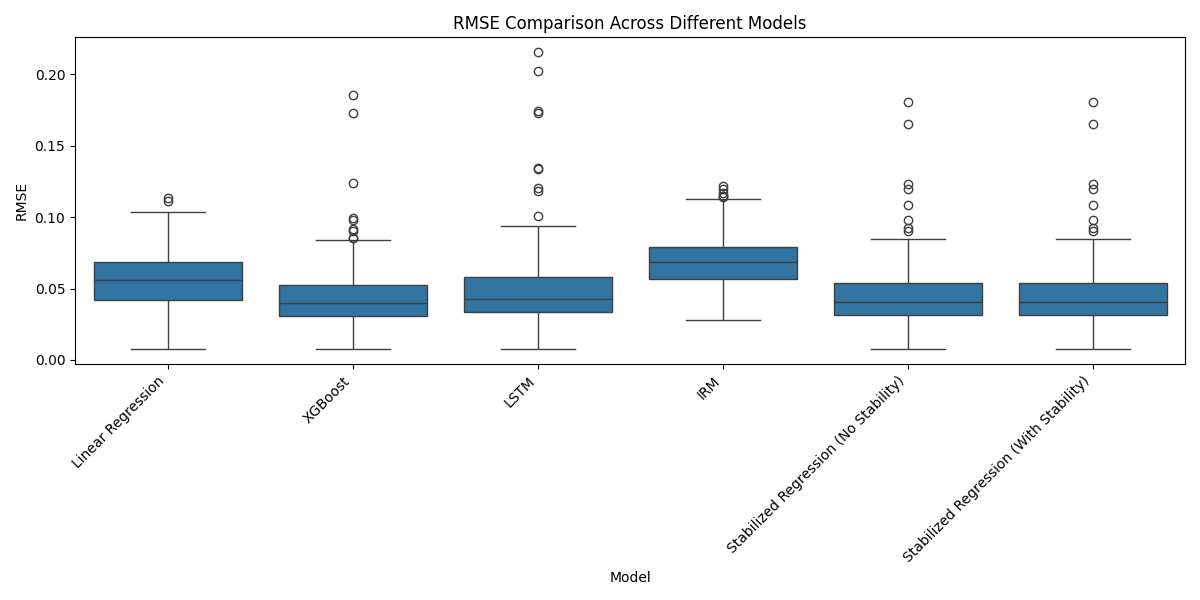
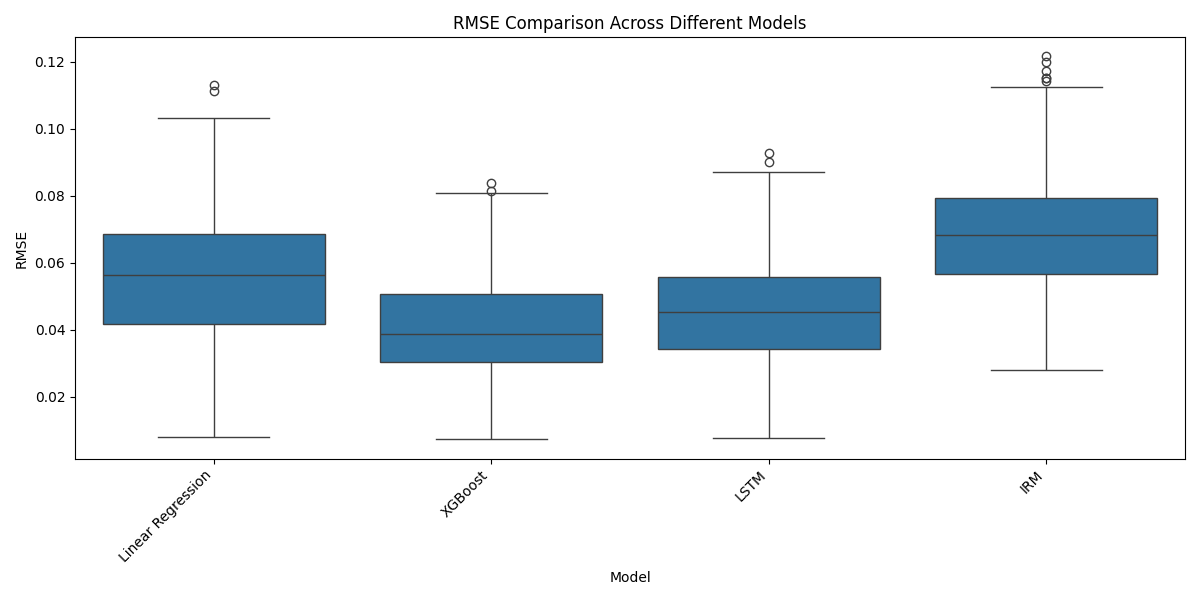
modified script

diff --git a/Comparison_InSite/comparison.py b/Comparison_InSite/comparison.py
@@ -6,14 +6,16 @@ import matplotlib.pyplot as plt
 import seaborn as sns
 
 # Read CSV files
-df_lr = pd.read_csv('/cluster/project/math/akmete/MSc/LR/In_Site/results.csv')
-df_xgb = pd.read_csv('/cluster/project/math/akmete/MSc/XGBoost/InSite/results.csv') 
+df_lr = pd.read_csv('/cluster/project/math/akmete/MSc/LR/In_Site/results_2.csv')
+df_xgb = pd.read_csv('/cluster/project/math/akmete/MSc/XGBoost/InSite/results_2.csv') 
 df_lstm = pd.read_csv('/cluster/project/math/akmete/MSc/LSTM/InSite/results.csv')
-df_irm = pd.read_csv('/cluster/project/math/akmete/MSc/IRM/OnSite/results.csv')
-df_sr_nostab = pd.read_csv('/cluster/project/math/akmete/MSc/Stabilized_Regression/In_Site/NoStability/results.csv')
-df_sr_withstab = pd.read_csv('/cluster/project/math/akmete/MSc/Stabilized_Regression/In_Site/WithStability/results.csv')
+df_irm = pd.read_csv('/cluster/project/math/akmete/MSc/IRM/OnSite/results_corrected.csv')
+df_sr_lr_nostab = pd.read_csv('/cluster/project/math/akmete/MSc/Stabilized_Regression/In_Site/NoStability/LR/results_lasso.csv')
+df_sr_lr_withstab = pd.read_csv('/cluster/project/math/akmete/MSc/Stabilized_Regression/In_Site/WithStability/LR/results_lasso.csv')
+df_sr_xgb_nostab = pd.read_csv('/cluster/project/math/akmete/MSc/Stabilized_Regression/In_Site/NoStability/XGBoost/results_screened_O_hat.csv')
+df_sr_xgb_withstab = pd.read_csv('/cluster/project/math/akmete/MSc/Stabilized_Regression/In_Site/WithStability/XGBoost/results_screened_all_metrics.csv')
 
-'''
+
 # Remove outlier from LR using the IQR method on the 'rmse' column
 q1_lr = df_lr['rmse'].quantile(0.25)
 q3_lr = df_lr['rmse'].quantile(0.75)
@@ -46,38 +48,58 @@ lower_bound_xgb = q1_xgb - 1.5 * iqr_xgb
 upper_bound_xgb = q3_xgb + 1.5 * iqr_xgb
 df_xgb_filtered = df_xgb[(df_xgb['rmse'] >= lower_bound_xgb) & (df_xgb['rmse'] <= upper_bound_xgb)]
 
-# Remove outliers in SR_nostab using the IQR method on the 'rmse' column
-q1_sr_nostab = df_sr_nostab['ensemble_rmse'].quantile(0.25)
-q3_sr_nostab = df_sr_nostab['ensemble_rmse'].quantile(0.75)
-iqr_sr_nostab = q3_sr_nostab - q1_sr_nostab
-lower_bound_sr_nostab = q1_sr_nostab - 1.5 * iqr_sr_nostab
-upper_bound_sr_nostab = q3_sr_nostab + 1.5 * iqr_sr_nostab
-df_sr_nostab_filtered = df_sr_nostab[(df_sr_nostab['ensemble_rmse'] >= lower_bound_sr_nostab) & (df_sr_nostab['ensemble_rmse'] <= upper_bound_sr_nostab)]
+# Remove outliers in SR_LR_nostab using the IQR method on the 'rmse' column
+q1_sr_lr_nostab = df_sr_lr_nostab['ensemble_rmse_scaled'].quantile(0.25)
+q3_sr_lr_nostab = df_sr_lr_nostab['ensemble_rmse_scaled'].quantile(0.75)
+iqr_sr_lr_nostab = q3_sr_lr_nostab - q1_sr_lr_nostab
+lower_bound_sr_lr_nostab = q1_sr_lr_nostab - 1.5 * iqr_sr_lr_nostab
+upper_bound_sr_lr_nostab = q3_sr_lr_nostab + 1.5 * iqr_sr_lr_nostab
+df_sr_lr_nostab_filtered = df_sr_lr_nostab[(df_sr_lr_nostab['ensemble_rmse_scaled'] >= lower_bound_sr_lr_nostab) & (df_sr_lr_nostab['ensemble_rmse_scaled'] <= upper_bound_sr_lr_nostab)]
 
-# Remove outliers in SR_withstab using the IQR method on the 'rmse' column
-q1_sr_withstab = df_sr_withstab['ensemble_rmse'].quantile(0.25)
-q3_sr_withstab = df_sr_withstab['ensemble_rmse'].quantile(0.75)
-iqr_sr_withstab = q3_sr_withstab - q1_sr_withstab
-lower_bound_sr_withstab = q1_sr_withstab - 1.5 * iqr_sr_withstab
-upper_bound_sr_withstab = q3_sr_withstab + 1.5 * iqr_sr_withstab
-df_sr_withstab_filtered = df_sr_withstab[(df_sr_withstab['ensemble_rmse'] >= lower_bound_sr_withstab) & (df_sr_withstab['ensemble_rmse'] <= upper_bound_sr_withstab)]
-'''
+# Remove outliers in SR_XGB_nostab using the IQR method on the 'rmse' column
+q1_sr_xgb_nostab = df_sr_xgb_nostab['ensemble_rmse_scaled'].quantile(0.25)
+q3_sr_xgb_nostab = df_sr_xgb_nostab['ensemble_rmse_scaled'].quantile(0.75)
+iqr_sr_xgb_nostab = q3_sr_xgb_nostab - q1_sr_xgb_nostab
+lower_bound_sr_xgb_nostab = q1_sr_xgb_nostab - 1.5 * iqr_sr_xgb_nostab
+upper_bound_sr_xgb_nostab = q3_sr_xgb_nostab + 1.5 * iqr_sr_xgb_nostab
+df_sr_xgb_nostab_filtered = df_sr_xgb_nostab[(df_sr_xgb_nostab['ensemble_rmse_scaled'] >= lower_bound_sr_xgb_nostab) & (df_sr_xgb_nostab['ensemble_rmse_scaled'] <= upper_bound_sr_xgb_nostab)]
+
+# Remove outliers in SR_LR_withstab using the IQR method on the 'rmse' column
+q1_sr_lr_withstab = df_sr_lr_withstab['ensemble_rmse_scaled'].quantile(0.25)
+q3_sr_lr_withstab = df_sr_lr_withstab['ensemble_rmse_scaled'].quantile(0.75)
+iqr_sr_lr_withstab = q3_sr_lr_withstab - q1_sr_lr_withstab
+lower_bound_sr_lr_withstab = q1_sr_lr_withstab - 1.5 * iqr_sr_lr_withstab
+upper_bound_sr_lr_withstab = q3_sr_lr_withstab + 1.5 * iqr_sr_lr_withstab
+df_sr_lr_withstab_filtered = df_sr_lr_withstab[(df_sr_lr_withstab['ensemble_rmse_scaled'] >= lower_bound_sr_lr_withstab) & (df_sr_lr_withstab['ensemble_rmse_scaled'] <= upper_bound_sr_lr_withstab)]
+
+# Remove outliers in SR_XGB_withstab using the IQR method on the 'rmse' column
+q1_sr_xgb_withstab = df_sr_xgb_withstab['ensemble_rmse_scaled'].quantile(0.25)
+q3_sr_xgb_withstab = df_sr_xgb_withstab['ensemble_rmse_scaled'].quantile(0.75)
+iqr_sr_xgb_withstab = q3_sr_xgb_withstab - q1_sr_xgb_withstab
+lower_bound_sr_xgb_withstab = q1_sr_xgb_withstab - 1.5 * iqr_sr_xgb_withstab
+upper_bound_sr_xgb_withstab = q3_sr_xgb_withstab + 1.5 * iqr_sr_xgb_withstab
+df_sr_xgb_withstab_filtered = df_sr_xgb_withstab[(df_sr_xgb_withstab['ensemble_rmse_scaled'] >= lower_bound_sr_xgb_withstab) & (df_sr_xgb_withstab['ensemble_rmse_scaled'] <= upper_bound_sr_xgb_withstab)]
+
 # Combine RMSE values into one DataFrame with corresponding model names
 # For Stabilized Regression, we use the 'full_rmse' column
 rmse_data = pd.DataFrame({
-    'Model': (['Linear Regression'] * len(df_lr) +
-              ['XGBoost'] * len(df_xgb) +
-              ['LSTM'] * len(df_lstm) +
-              ['IRM'] * len(df_irm) +
-              ['SR (No Stability)'] * len(df_sr_nostab) +
-              ['SR (With Stability)'] * len(df_sr_withstab)),
+    'Model': (['Linear Regression'] * len(df_lr_filtered) +
+              ['XGBoost'] * len(df_xgb_filtered) +
+              ['LSTM'] * len(df_lstm_filtered) +
+              ['IRM'] * len(df_irm_filtered)),
+              #['SRpred (LR)'] * len(df_sr_lr_nostab_filtered) +
+              #['SRpred (XGB)'] * len(df_sr_xgb_nostab_filtered)+
+              #['SR (LR)'] * len(df_sr_lr_withstab_filtered)+
+              #['SR (XGB)'] * len(df_sr_xgb_withstab_filtered)),
     'RMSE': pd.concat([
-              df_lr['rmse'],
-              df_xgb['rmse'],
-              df_lstm['rmse'],
-              df_irm['rmse'],
-              df_sr_nostab['ensemble_rmse'],
-              df_sr_withstab['ensemble_rmse']
+              df_lr_filtered['rmse'],
+              df_xgb_filtered['rmse'],
+              df_lstm_filtered['rmse'],
+              df_irm_filtered['rmse']
+              #df_sr_lr_nostab_filtered['ensemble_rmse_scaled'],
+              #df_sr_xgb_nostab_filtered['ensemble_rmse_scaled'],
+              #df_sr_lr_withstab_filtered['ensemble_rmse_scaled'],
+              #df_sr_xgb_withstab_filtered['ensemble_rmse_scaled']
           ], ignore_index=True)
 })
 
@@ -90,6 +112,39 @@ plt.xlabel('Model')
 plt.ylabel('RMSE')
 plt.tight_layout()
 plt.savefig('boxplot_in_site.png')
+
+# Now R2
+r2_data = pd.DataFrame({
+    'Model': (['Linear Regression'] * len(df_lr_filtered) +
+              ['XGBoost'] * len(df_xgb_filtered) +
+              ['LSTM'] * len(df_lstm_filtered) +
+              ['IRM'] * len(df_irm_filtered)),
+              #['SRpred (LR)'] * len(df_sr_lr_nostab_filtered) +
+              #['SRpred (XGB)'] * len(df_sr_xgb_nostab_filtered)+
+              #['SR (LR)'] * len(df_sr_lr_withstab_filtered)+
+              #['SR (XGB)'] * len(df_sr_xgb_withstab_filtered)),
+    'RMSE': pd.concat([
+              df_lr_filtered['r2_score'],
+              df_xgb_filtered['r2_score'],
+              df_lstm_filtered['r2'],
+              df_irm_filtered['r2']
+              #df_sr_lr_nostab_filtered['ensemble_r2'],
+              #df_sr_xgb_nostab_filtered['ensemble_r2'],
+              #df_sr_lr_withstab_filtered['ensemble_r2'],
+              #df_sr_xgb_withstab_filtered['ensemble_r2']
+          ], ignore_index=True)
+})
+
+# Create a boxplot comparing RMSE across models
+plt.figure(figsize=(12, 6))
+sns.boxplot(x='Model', y='RMSE', data=rmse_data)
+plt.xticks(rotation=45, ha='right')
+plt.title('RMSE Comparison Across Different Models')
+plt.xlabel('Model')
+plt.ylabel('RMSE')
+plt.tight_layout()
+plt.savefig('boxplot_in_site.png')
+
 
 
 # df_lr columns are: site,mse,rmse,r2_score

diff --git a/Stabilized_Regression/In_Site/NoStability/LR/merge.py b/Stabilized_Regression/In_Site/NoStability/LR/merge.py
@@ -1,17 +1,40 @@
-import glob
 import pandas as pd
+import glob
+import os
 
-# Find all CSV files that match the pattern
-csv_files = glob.glob("results_site_*.csv")
+# Define the path where CSV files are located
+csv_folder = "/cluster/project/math/akmete/MSc/Stabilized_Regression/In_Site/NoStability/LR/"
 
-# Read each CSV into a DataFrame and combine them
-df_list = [pd.read_csv(file) for file in csv_files]
-merged_df = pd.concat(df_list, ignore_index=True)
+# Find all files matching the pattern "results_site_*"
+csv_files = glob.glob(os.path.join(csv_folder, "**/results_site_*.csv"), recursive=True)
 
-# Sort by the 'site_left_out' column (change the column name if necessary)
-merged_df = merged_df.sort_values(by='site')
+# Use a temporary location for writing first (e.g., /tmp/)
+temp_merged_csv = "/tmp/merged_results.csv"
+final_merged_csv = os.path.join(csv_folder, "merged_results.csv")
 
-# Save the merged and sorted DataFrame to a new CSV
-merged_df.to_csv("results_lasso.csv", index=False)
+# Open the merged CSV file in append mode
+header_written = False  # Ensure header is written only once
 
-print("Merged CSV saved as merged_results_LOSO.csv")
+with open(temp_merged_csv, "w") as merged_file:
+    for file in csv_files:
+        try:
+            # Read the CSV file (each file has only one row)
+            df = pd.read_csv(file)
+
+            # Append to the merged file
+            df.to_csv(merged_file, index=False, header=not header_written, mode="a")
+            header_written = True  # Ensure header is written only once
+
+            # Delete the CSV immediately after processing (free space)
+            os.remove(file)
+            print(f"✅ Merged & deleted: {file}")
+
+        except Exception as e:
+            print(f"❌ Error processing {file}: {e}")
+
+# Move merged file back to the correct location
+os.rename(temp_merged_csv, final_merged_csv)
+
+print(f"\n📌 Merged CSV saved at: {final_merged_csv}")
+
+

diff --git a/Stabilized_Regression/In_Site/NoStability/XGBoost/insite_screened.py b/Stabilized_Regression/In_Site/NoStability/XGBoost/insite_screened.py
@@ -87,10 +87,14 @@ def compute_scores_insite(df_site, feature_subset, target_column):
     
     y_train_min = y_train.min()
     y_train_max = y_train.max()
+
     if y_train_max - y_train_min == 0:
         y_train_scaled = y_train.values
+        y_test_scaled = y_test.values
     else:
         y_train_scaled = (y_train - y_train_min) / (y_train_max - y_train_min)
+        y_test_scaled = (y_test - y_train_min) / (y_train_max - y_train_min)
+
     
     model = XGBRegressor(objective='reg:squarederror',
                          n_estimators=100,
@@ -101,12 +105,12 @@ def compute_scores_insite(df_site, feature_subset, target_column):
     model.fit(X_train_scaled, y_train_scaled)
     
     # Compute prediction score as negative MSE on training data
-    y_pred_train = model.predict(X_train_scaled)
-    mse_train = mean_squared_error(y_train_scaled, y_pred_train)
-    pred_score = -mse_train
+    y_pred = model.predict(X_test_scaled)
+    mse = mean_squared_error(y_test_scaled, y_pred)
+    pred_score = -mse
     
     # Stability score: variance of squared errors on training data
-    squared_errors = (y_train_scaled - y_pred_train) ** 2
+    squared_errors = (y_test_scaled - y_pred) ** 2
     stab_score = np.var(squared_errors, ddof=1) if len(squared_errors) > 1 else 0
     
     return pred_score, stab_score, model, scaler, y_train_min, y_train_max

diff --git a/Stabilized_Regression/In_Site/WithStability/XGBoost/insite_screened.py b/Stabilized_Regression/In_Site/WithStability/XGBoost/insite_screened.py
@@ -87,10 +87,14 @@ def compute_scores_insite(df_site, feature_subset, target_column):
     
     y_train_min = y_train.min()
     y_train_max = y_train.max()
+
     if y_train_max - y_train_min == 0:
         y_train_scaled = y_train.values
+        y_test_scaled = y_test.values
     else:
         y_train_scaled = (y_train - y_train_min) / (y_train_max - y_train_min)
+        y_test_scaled = (y_test - y_train_min) / (y_train_max - y_train_min)
+
     
     model = XGBRegressor(objective='reg:squarederror',
                          n_estimators=100,
@@ -101,12 +105,12 @@ def compute_scores_insite(df_site, feature_subset, target_column):
     model.fit(X_train_scaled, y_train_scaled)
     
     # Compute prediction score as negative MSE on training data
-    y_pred_train = model.predict(X_train_scaled)
-    mse_train = mean_squared_error(y_train_scaled, y_pred_train)
-    pred_score = -mse_train
+    y_pred = model.predict(X_test_scaled)
+    mse = mean_squared_error(y_test_scaled, y_pred)
+    pred_score = -mse
     
     # Stability score: variance of squared errors on training data
-    squared_errors = (y_train_scaled - y_pred_train) ** 2
+    squared_errors = (y_test_scaled - y_pred) ** 2
     stab_score = np.var(squared_errors, ddof=1) if len(squared_errors) > 1 else 0
     
     return pred_score, stab_score, model, scaler, y_train_min, y_train_max

diff --git a/Stabilized_Regression/In_Site/NoStability/LR/insite_lasso.py b/Stabilized_Regression/In_Site/NoStability/LR/insite_lasso.py
@@ -88,22 +88,26 @@ def compute_scores_insite(df_site, feature_subset, target_column):
     
     y_train_min = y_train.min()
     y_train_max = y_train.max()
+
     if y_train_max - y_train_min == 0:
         y_train_scaled = y_train.values
+        y_test_scaled = y_test.values
     else:
         y_train_scaled = (y_train - y_train_min) / (y_train_max - y_train_min)
+        y_test_scaled = (y_test - y_train_min) / (y_train_max - y_train_min)
+
     
     # Use LinearRegression as the base regressor
     model = LinearRegression()
     model.fit(X_train_scaled, y_train_scaled)
     
     # Compute prediction score as negative MSE on training data
-    y_pred_train = model.predict(X_train_scaled)
-    mse_train = mean_squared_error(y_train_scaled, y_pred_train)
-    pred_score = -mse_train
+    y_pred = model.predict(X_test_scaled)
+    mse = mean_squared_error(y_test_scaled, y_pred)
+    pred_score = -mse
     
     # Stability score: variance of squared errors on training data
-    squared_errors = (y_train_scaled - y_pred_train) ** 2
+    squared_errors = (y_test_scaled - y_pred) ** 2
     stab_score = np.var(squared_errors, ddof=1) if len(squared_errors) > 1 else 0
     
     return pred_score, stab_score, model, scaler, y_train_min, y_train_max

diff --git a/Stabilized_Regression/In_Site/WithStability/LR/insite_lasso.py b/Stabilized_Regression/In_Site/WithStability/LR/insite_lasso.py
@@ -82,22 +82,26 @@ def compute_scores_insite(df_site, feature_subset, target_column):
     
     y_train_min = y_train.min()
     y_train_max = y_train.max()
+
     if y_train_max - y_train_min == 0:
         y_train_scaled = y_train.values
+        y_test_scaled = y_test.values
     else:
         y_train_scaled = (y_train - y_train_min) / (y_train_max - y_train_min)
+        y_test_scaled = (y_test - y_train_min) / (y_train_max - y_train_min)
+
     
     # Use LinearRegression
     model = LinearRegression()
     model.fit(X_train_scaled, y_train_scaled)
     
     # Compute prediction score as negative MSE on training data
-    y_pred_train = model.predict(X_train_scaled)
-    mse_train = mean_squared_error(y_train_scaled, y_pred_train)
-    pred_score = -mse_train
+    y_pred = model.predict(X_test_scaled)
+    mse = mean_squared_error(y_test_scaled, y_pred)
+    pred_score = -mse
     
     # Stability score: variance of squared errors on training data
-    squared_errors = (y_train_scaled - y_pred_train) ** 2
+    squared_errors = (y_test_scaled - y_pred) ** 2
     stab_score = np.var(squared_errors, ddof=1) if len(squared_errors) > 1 else 0
     
     return pred_score, stab_score, model, scaler, y_train_min, y_train_max

diff --git a/Stabilized_Regression/LOGO/NoStability/LR/merge.py b/Stabilized_Regression/LOGO/NoStability/LR/merge.py
@@ -12,6 +12,6 @@ merged_df = pd.concat(df_list, ignore_index=True)
 merged_df = merged_df.sort_values(by='test_cluster')
 
 # Save the merged and sorted DataFrame to a new CSV
-merged_df.to_csv("results_lasso.csv", index=False)
+merged_df.to_csv("results_lasso_withOhat.csv", index=False)
 
 print("Merged CSV saved as merged_results_LOSO.csv")

diff --git a/Stabilized_Regression/LOSO/WithStability/LR/loso_lasso.py b/Stabilized_Regression/LOSO/WithStability/LR/loso_lasso.py
@@ -20,7 +20,7 @@ df = df.fillna(0)
 for col in df.select_dtypes(include=['float64']).columns:
     df[col] = df[col].astype('float32')
 # Drop unnecessary columns.
-df = df.drop(columns=['Unnamed: 0'])
+df = df.drop(columns=['Unnamed: 0', 'cluster'])
 print("Loaded dataframe with columns:", df.columns)
 
 # Define features and target.
